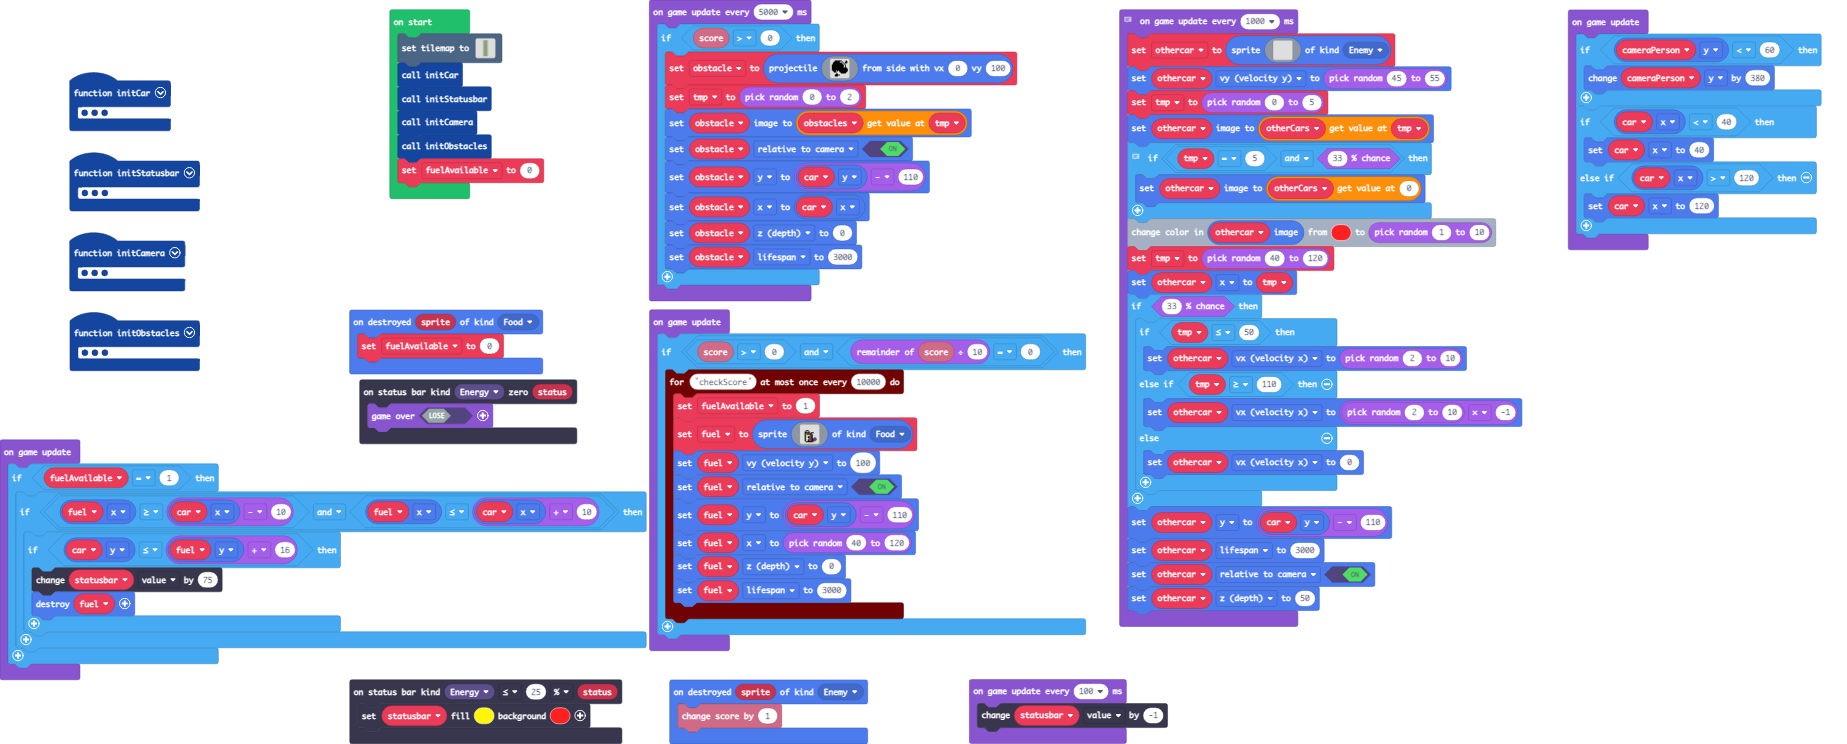
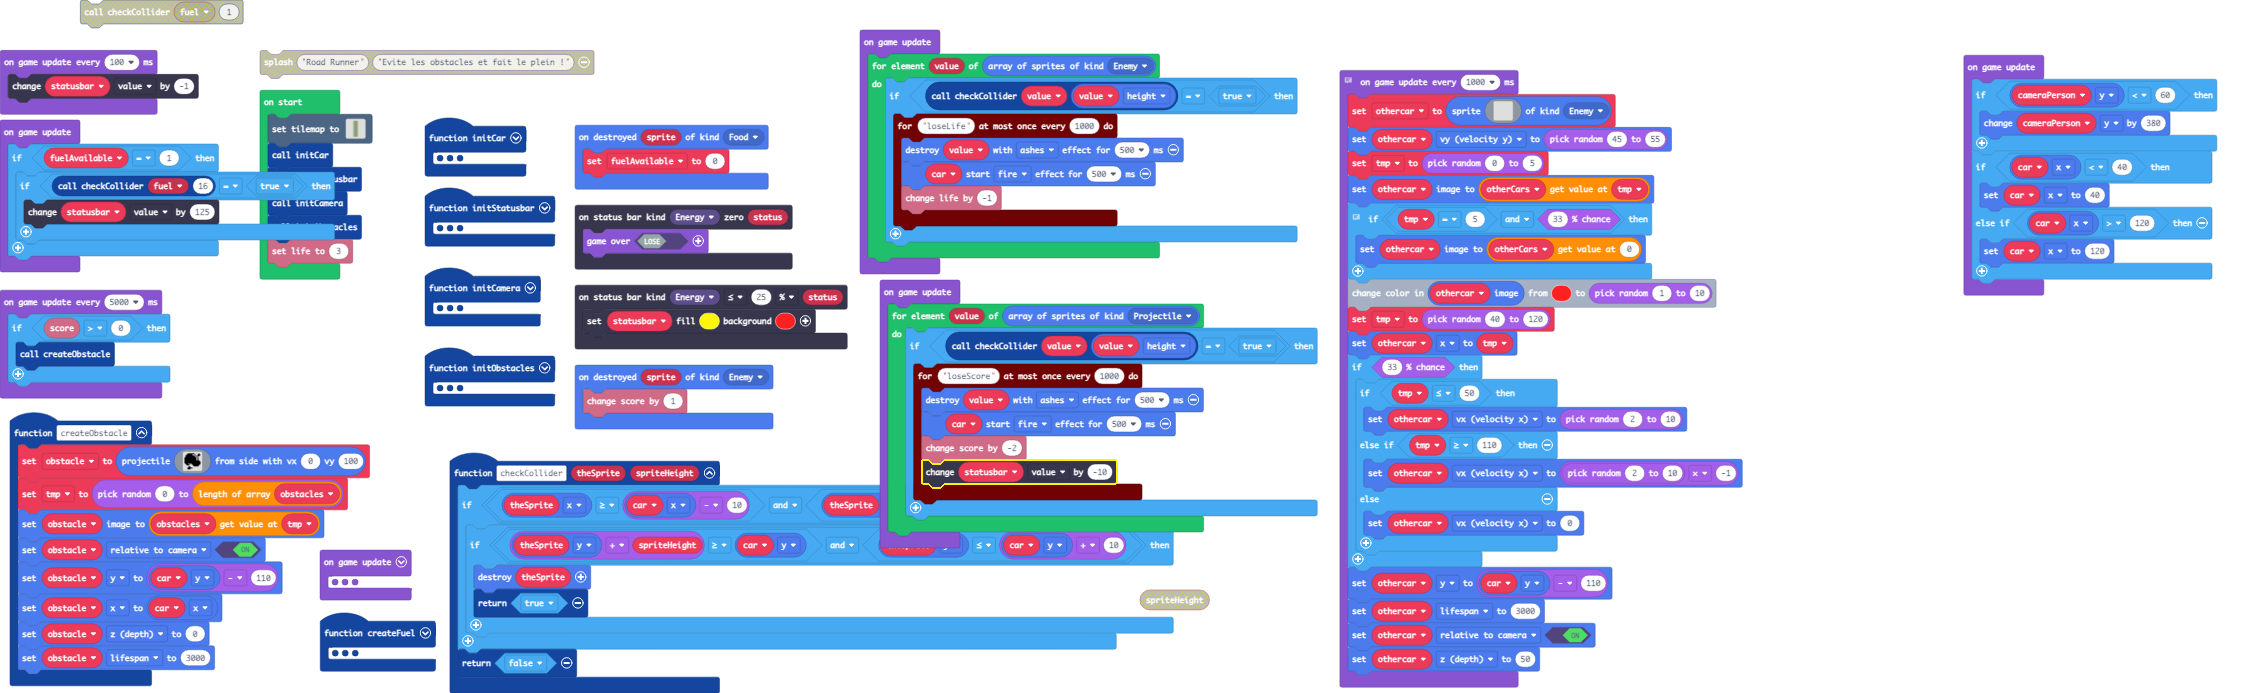
collider

diff --git a/main.ts b/main.ts
@@ -2,6 +2,43 @@ namespace SpriteKind {
     export const ghost = SpriteKind.create()
     export const camera = SpriteKind.create()
     export const collider = SpriteKind.create()
+    export const texts = SpriteKind.create()
+}
+function createObstacle () {
+    obstacle = sprites.createProjectileFromSide(img`
+        . . . f f f f f f f . . . . f 1 
+        . . f f f f f f 1 1 f . . f f f 
+        . f f f f f f f f f 1 f . f f . 
+        . f f f f f f f f f f 1 f . . . 
+        f f f f f f f f f f f f 1 f . . 
+        f f f f f f f f f f f f 1 f . . 
+        f f f f f f f f f f f f 1 f . . 
+        f f f f f f f f f f f f f f f . 
+        f f f f f f f f f f f f f f f f 
+        f f f f f f f f f f f f f f f f 
+        . f f f 1 f . f f f f f f f f f 
+        . . f f f . . . f f f f f f f . 
+        . . . . . . . . . f f f f f . . 
+        . . . . f f 1 1 . . . . . . . . 
+        . . . f f f f f . . . . . . . . 
+        . . . f f f . . . . . . . . . . 
+        `, 0, 100)
+    tmp = randint(0, obstacles.length)
+    obstacle.setImage(obstacles[tmp])
+    obstacle.setFlag(SpriteFlag.RelativeToCamera, true)
+    obstacle.y = car.y - 110
+    obstacle.x = car.x
+    obstacle.z = 0
+    obstacle.lifespan = 3000
+}
+function checkCollider (theSprite: Sprite, spriteHeight: number) {
+    if (theSprite.x >= car.x - 10 && theSprite.x <= car.x + 10) {
+        if (theSprite.y + spriteHeight >= car.y && theSprite.y <= car.y + 10) {
+            theSprite.destroy()
+            return true
+        }
+    }
+    return false
 }
 function initCar () {
     car = sprites.create(img`
@@ -54,15 +91,54 @@ function initCamera () {
 sprites.onDestroyed(SpriteKind.Food, function (sprite) {
     fuelAvailable = 0
 })
+function createFuel () {
+    fuelAvailable = 1
+    fuel = sprites.create(img`
+        . . . . . . . . . . . . . . . . 
+        . . . . . . . . . . . . . . . . 
+        . . . . . . . . . . . . . . . . 
+        . . . . . . . . . . . . . . . . 
+        . . . . f f f . . . . . . . . . 
+        . . . f . . . f . . . . . . . . 
+        . . . f f f f f . f f f . . . . 
+        . . . f 7 e e e f f . . . . . . 
+        . . . f 7 e e e e c f . . . . . 
+        . . . f 7 1 1 1 e c f . . . . . 
+        . . . f 7 1 f f e c f . . . . . 
+        . . . f 7 1 f e e c f . c c . . 
+        . . . f 7 1 1 e e c f c c c c . 
+        . . . f 7 1 f e e c f c c c c . 
+        . . . f 7 1 f e e c f c c c . . 
+        . . . . f f f f f f c c . . . . 
+        `, SpriteKind.Food)
+    fuel.vy = 100
+    fuel.setFlag(SpriteFlag.RelativeToCamera, true)
+    fuel.y = car.y - 110
+    fuel.x = randint(40, 120)
+    fuel.z = 0
+    fuel.lifespan = 3000
+}
 function initStatusbar () {
     statusbar = statusbars.create(20, 4, StatusBarKind.Energy)
     statusbar.max = 350
     statusbar.value = 350
     statusbar.setBarBorder(0, 15)
     statusbar.setStatusBarFlag(StatusBarFlag.SmoothTransition, true)
-    statusbar.setLabel("F", 15)
     statusbar.positionDirection(CollisionDirection.Top)
     statusbar.positionDirection(CollisionDirection.Right)
+    statusbar.setOffsetPadding(50, 3)
+    label_Fuel = sprites.create(img`
+        b f f f f f f f f f f f f f f f f b 
+        f 1 1 1 f 1 f f 1 f 1 1 1 f 1 f f f 
+        f 1 f f f 1 f f 1 f 1 f f f 1 f f f 
+        f 1 1 1 f 1 f f 1 f 1 1 f f 1 f f f 
+        f 1 f f f 1 f f 1 f 1 f f f 1 f f f 
+        f 1 f f f f 1 1 f f 1 1 1 f 1 1 1 f 
+        b f f f f f f f f f f f f f f f f b 
+        `, SpriteKind.texts)
+    label_Fuel.setPosition(148, 103)
+    label_Fuel.setFlag(SpriteFlag.RelativeToCamera, true)
+    fuelAvailable = 0
 }
 function initObstacles () {
     obstacles = [img`
@@ -116,6 +192,23 @@ function initObstacles () {
         . . . . 2 f f 2 2 f f 2 c c . . 
         . . . . 2 2 2 2 2 2 2 2 c c . . 
         . . . . 5 f f f f f f 5 c c c . 
+        `, img`
+        . . 2 f f f f f f 2 c c c . . . 
+        . . 2 2 2 2 2 2 2 2 c c . . . . 
+        . . 2 f f 2 2 f f 2 c c . . . . 
+        . . 2 2 2 2 2 2 2 2 c c . . . . 
+        . . 2 2 f f f f 2 2 c c c . . . 
+        . . 2 f f f f f f 2 c c c c . . 
+        . . 2 1 c 2 2 2 f 2 c c c c . . 
+        . . 2 f 1 2 2 2 f 2 c c c c . . 
+        . . 2 f 1 2 2 2 f 2 c c c c . . 
+        . . 2 f f f f f f 2 c c c . . . 
+        . . 2 1 f f f f f 2 c c . . . . 
+        . . 2 1 f f f f 2 2 c c . . . . 
+        . . 2 1 2 2 2 2 2 2 c c . . . . 
+        . . 2 2 2 2 2 2 2 2 c c . . . . 
+        . . . 2 2 2 2 2 2 c c . . . . . 
+        . . . . 2 2 2 2 c . . . . . . . 
         `]
     otherCars = [
     img`
@@ -254,21 +347,40 @@ statusbars.onStatusReached(StatusBarKind.Energy, statusbars.StatusComparison.LTE
     statusbar.setColor(5, 2)
 })
 let othercar: Sprite = null
-let tmp = 0
-let obstacle: Sprite = null
-let fuel: Sprite = null
 let otherCars: Image[] = []
-let obstacles: Image[] = []
+let label_Fuel: Sprite = null
 let statusbar: StatusBarSprite = null
+let fuel: Sprite = null
+let fuelAvailable = 0
 let cameraPerson: Sprite = null
 let car: Sprite = null
-let fuelAvailable = 0
+let obstacles: Image[] = []
+let tmp = 0
+let obstacle: Sprite = null
 tiles.setTilemap(tilemap`level1`)
 initCar()
 initStatusbar()
 initCamera()
 initObstacles()
-fuelAvailable = 0
+info.setLife(3)
+game.onUpdate(function () {
+    for (let value of sprites.allOfKind(SpriteKind.Enemy)) {
+        if (checkCollider(value, value.height) == true) {
+            timer.throttle("loseLife", 1000, function () {
+                value.destroy(effects.ashes, 500)
+                car.startEffect(effects.fire, 500)
+                info.changeLifeBy(-1)
+            })
+        }
+    }
+})
+game.onUpdate(function () {
+    if (fuelAvailable == 1) {
+        if (checkCollider(fuel, 16) == true) {
+            statusbar.value += 125
+        }
+    }
+})
 game.onUpdate(function () {
     if (cameraPerson.y < 60) {
         cameraPerson.y += 380
@@ -280,73 +392,27 @@ game.onUpdate(function () {
     }
 })
 game.onUpdate(function () {
-    if (info.score() > 0 && info.score() % 10 == 0) {
-        timer.throttle("checkScore", 10000, function () {
-            fuelAvailable = 1
-            fuel = sprites.create(img`
-                . . . . . . . . . . . . . . . . 
-                . . . . . . . . . . . . . . . . 
-                . . . . . . . . . . . . . . . . 
-                . . . . . . . . . . . . . . . . 
-                . . . . f f f . . . . . . . . . 
-                . . . f . . . f . . . . . . . . 
-                . . . f f f f f . f f f . . . . 
-                . . . f 7 e e e f f . . . . . . 
-                . . . f 7 e e e e c f . . . . . 
-                . . . f 7 1 1 1 e c f . . . . . 
-                . . . f 7 1 f f e c f . . . . . 
-                . . . f 7 1 f e e c f . c c . . 
-                . . . f 7 1 1 e e c f c c c c . 
-                . . . f 7 1 f e e c f c c c c . 
-                . . . f 7 1 f e e c f c c c . . 
-                . . . . f f f f f f c c . . . . 
-                `, SpriteKind.Food)
-            fuel.vy = 100
-            fuel.setFlag(SpriteFlag.RelativeToCamera, true)
-            fuel.y = car.y - 110
-            fuel.x = randint(40, 120)
-            fuel.z = 0
-            fuel.lifespan = 3000
-        })
+    for (let value of sprites.allOfKind(SpriteKind.Projectile)) {
+        if (checkCollider(value, value.height) == true) {
+            timer.throttle("loseScore", 1000, function () {
+                value.destroy(effects.ashes, 500)
+                car.startEffect(effects.fire, 500)
+                info.changeScoreBy(-2)
+                statusbar.value += -10
+            })
+        }
     }
 })
 game.onUpdate(function () {
-    if (fuelAvailable == 1) {
-        if (fuel.x >= car.x - 10 && fuel.x <= car.x + 10) {
-            if (car.y <= fuel.y + 16) {
-                statusbar.value += 75
-                fuel.destroy()
-            }
-        }
+    if (info.score() > 0 && info.score() % 10 == 0) {
+        timer.throttle("checkScore", 10000, function () {
+            createFuel()
+        })
     }
 })
 game.onUpdateInterval(5000, function () {
     if (info.score() > 0) {
-        obstacle = sprites.createProjectileFromSide(img`
-            . . . f f f f f f f . . . . f 1 
-            . . f f f f f f 1 1 f . . f f f 
-            . f f f f f f f f f 1 f . f f . 
-            . f f f f f f f f f f 1 f . . . 
-            f f f f f f f f f f f f 1 f . . 
-            f f f f f f f f f f f f 1 f . . 
-            f f f f f f f f f f f f 1 f . . 
-            f f f f f f f f f f f f f f f . 
-            f f f f f f f f f f f f f f f f 
-            f f f f f f f f f f f f f f f f 
-            . f f f 1 f . f f f f f f f f f 
-            . . f f f . . . f f f f f f f . 
-            . . . . . . . . . f f f f f . . 
-            . . . . f f 1 1 . . . . . . . . 
-            . . . f f f f f . . . . . . . . 
-            . . . f f f . . . . . . . . . . 
-            `, 0, 100)
-        tmp = randint(0, 2)
-        obstacle.setImage(obstacles[tmp])
-        obstacle.setFlag(SpriteFlag.RelativeToCamera, true)
-        obstacle.y = car.y - 110
-        obstacle.x = car.x
-        obstacle.z = 0
-        obstacle.lifespan = 3000
+        createObstacle()
     }
 })
 // hardest : game update 800
